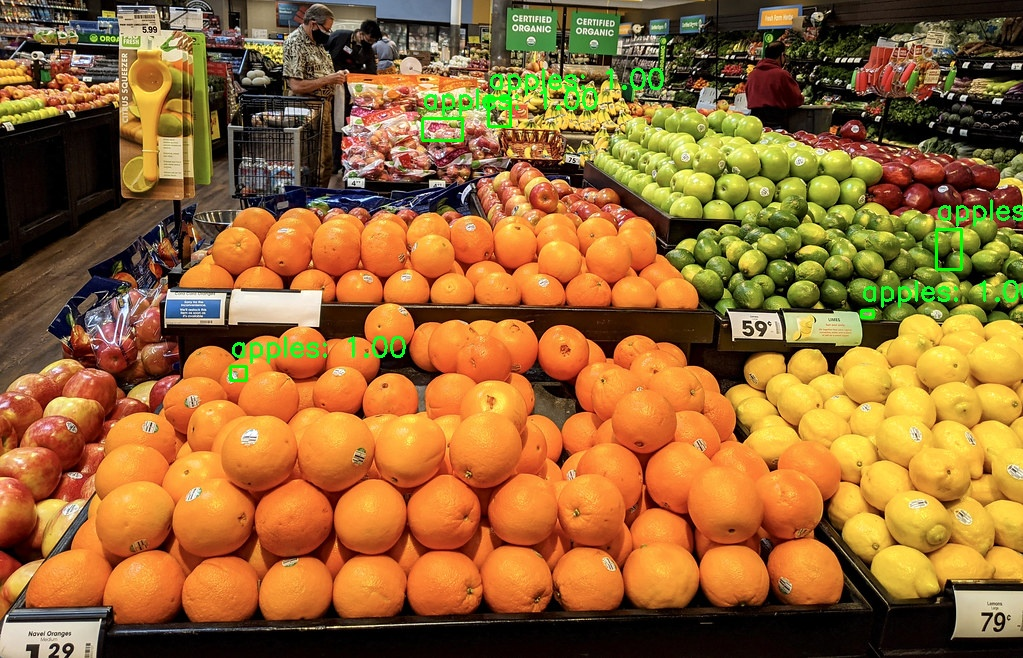
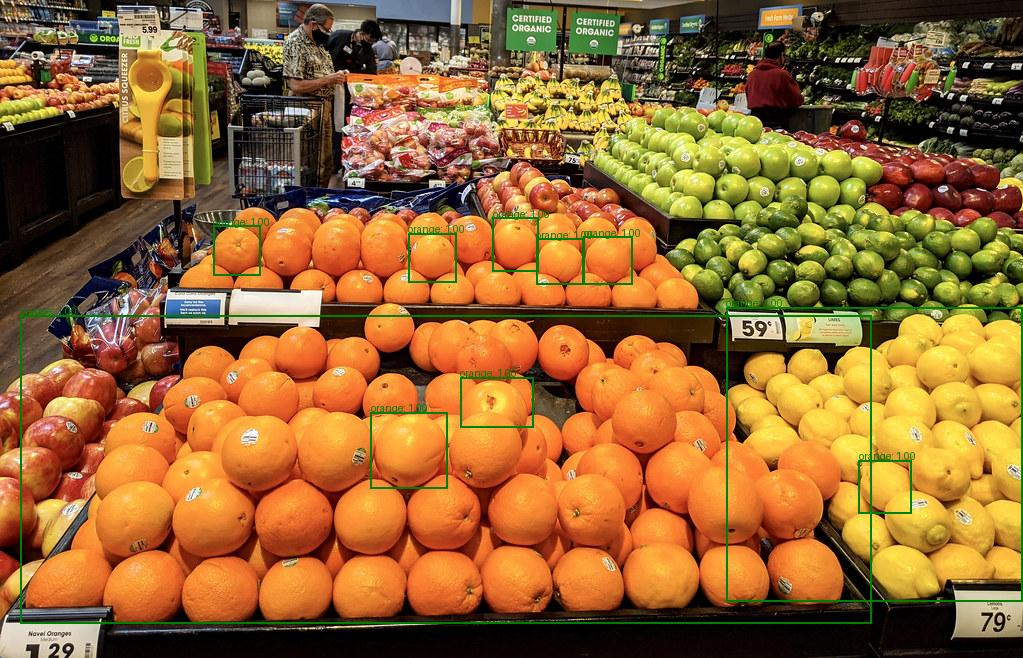
complete nn approach

diff --git a/scripts/nn_approach.py b/scripts/nn_approach.py
@@ -1,8 +1,9 @@
 import os
 import cv2
-from PIL import Image
+from PIL import Image, ImageDraw, ImageFont
 from scripts.fruit_detector import FruitDetector
 from scripts.score_calculator import ScoreCalculator
+import numpy as np
 
 ROOT = os.path.dirname(os.path.abspath(__file__))
 
@@ -11,16 +12,18 @@ class NNApproach:
     def process(self, image_path, k):
         fruit_detector = FruitDetector()
         fruit_detector.load_model()
+        score_calculator = ScoreCalculator()
+        score_calculator.build_model()
         identified_units = fruit_detector.detect_objects(os.path.join(ROOT, '../data/input/', image_path))
 
         image = Image.open(os.path.join(ROOT, '../data/input/', image_path))
         scored_units = []
         for identified_unit in identified_units:
             x1, y1, x2, y2 = identified_unit['x1'], identified_unit['y1'], identified_unit['x2'], identified_unit['y2']
-            unit_image = image[y1:y2, x1:x2]
+            unit_image = image.crop((x1, y1, x2, y2))
             fruit_label = identified_unit['label']
-            score_calculator = ScoreCalculator(fruit_label)
-            score_calculator.load_model()
+            fruit_class = fruit_label if fruit_label[:-1] == 'a' else fruit_label + 's'
+            score_calculator.load_model(f"../models/{fruit_class}_score.pth")
             score = score_calculator.score(unit_image)
             scored_units.append({
                 'label': fruit_label,
@@ -30,9 +33,13 @@ class NNApproach:
                 'x2': x2,
                 'y2': y2
             })
-        scored_units = sorted(scored_units, key=lambda x: x['score'], reverse=True)
+        scored_units = sorted(scored_units, key=lambda x: (-x['score'], (x['x2']-x['x1'])*(x['y2']-x['y1'])))
+
+        draw = ImageDraw.Draw(image)
+        font = ImageFont.load_default()
         for unit in scored_units[:k]:
             x1, y1, x2, y2 = unit['x1'], unit['y1'], unit['x2'], unit['y2']
-            cv2.rectangle(image, (x1, y1), (x2, y2), (0, 255, 0), 2)
-            cv2.putText(image, f"{unit['label']}: {unit['score']:.2f}", (x1, y1-10), cv2.FONT_HERSHEY_SIMPLEX, 0.9, (36,255,12), 2)
-        cv2.imwrite(os.path.join(ROOT, '../data/output/', image_path), image)
+            label = f"{unit['label']}: {unit['score']:.2f}"
+            draw.rectangle([x1, y1, x2, y2], outline='green', width=2)
+            draw.text((x1, y1-10), label, fill='green', font=font)
+        image.save(os.path.join(ROOT, '../data/output/', image_path))

diff --git a/scripts/score_calculator.py b/scripts/score_calculator.py
@@ -10,7 +10,7 @@ import os
 ROOT = os.path.dirname(os.path.abspath(__file__))
 
 class ScoreCalculator:
-    def __init__(self, fruit):
+    def __init__(self, fruit=None):
         self.fruit = fruit
         self.model = None
         self.batch_size = 32
@@ -98,5 +98,7 @@ class ScoreCalculator:
         torch.save(self.model.state_dict(), os.path.join(ROOT, path))
 
     def load_model(self, path):
-        self.model.load_state_dict(torch.load(os.path.join(ROOT, path)))
+        if self.model is None:
+            self.build_model()
+        self.model.load_state_dict(torch.load(os.path.join(ROOT, path), map_location=self.device))
         self.model.to(self.device)

diff --git a/main.py b/main.py
@@ -1,9 +1,10 @@
 from scripts.naive_approach import NaiveApproach
 from scripts.ml_approach import MLApproach
+from scripts.nn_approach import NNApproach
 
 def run():
-    ml_approach = MLApproach()
-    ml_approach.process('orange.jpg', 5)
+    nn_approach = NNApproach()
+    nn_approach.process('orange.jpg', 10)
 
 if __name__ == "__main__":
     run()
